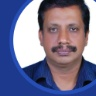
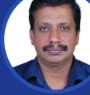
Fix Ismail photo loading with Data URL and adjust Executive Committee section layout for all 7 members

diff --git a/prisma/seed.ts b/prisma/seed.ts
@@ -142,7 +142,7 @@ async function main() {
             level: "DISTRICT",
             district: "Ernakulam",
             phone: "",
-            photoUrl: "/uploads/bearers/bearer-1771400600000-ismail.jpeg",
[1 lines of base64/hex data omitted]
             order: 13
         },
         {

diff --git a/src/components/CommitteeSection.tsx b/src/components/CommitteeSection.tsx
@@ -29,11 +29,11 @@ export function CommitteeSection({ officeBearers = [] }: { officeBearers?: Offic
 
     return (
       <>
-        {/* Row 1: 1-5 */}
-        <div className="flex flex-wrap justify-center gap-1 mb-2">
+        {/* Row 1: 1-5 (Top Office Bearers) */}
+        <div className="flex flex-wrap justify-center gap-2 mb-4">
           {bearers.slice(0, 5).map((bearer) => (
-            <div key={bearer.id} className="text-center group w-36">
-              <div className="h-28 w-28 mx-auto bg-blue-800/50 rounded-full mb-2 overflow-hidden relative border-4 border-blue-400/20 group-hover:border-blue-400 transition-colors">
+            <div key={bearer.id} className="text-center group w-32 md:w-36">
+              <div className="h-24 w-24 md:h-28 md:w-28 mx-auto bg-blue-800/50 rounded-full mb-2 overflow-hidden relative border-4 border-blue-400/20 group-hover:border-blue-400 transition-colors">
                 {bearer.photoUrl ? (
                   <img src={bearer.photoUrl} alt={bearer.name} className="object-cover object-top w-full h-full" />
                 ) : (
@@ -42,17 +42,17 @@ export function CommitteeSection({ officeBearers = [] }: { officeBearers?: Offic
                   </div>
                 )}
               </div>
-              <h4 className="text-base font-bold text-white mb-0.5 group-hover:text-blue-300 transition-colors leading-tight">{bearer.name}</h4>
+              <h4 className="text-sm md:text-base font-bold text-white mb-0.5 group-hover:text-blue-300 transition-colors leading-tight">{bearer.name}</h4>
               <p className="text-blue-200 text-xs font-medium mb-1">{bearer.position}</p>
             </div>
           ))}
         </div>
 
-        {/* Row 2: 6-9 */}
-        <div className="flex flex-wrap justify-center gap-1 mb-2">
+        {/* Row 2: 6-9 (Other Bearers) */}
+        <div className="flex flex-wrap justify-center gap-2 mb-4">
           {bearers.slice(5, 9).map((bearer) => (
-            <div key={bearer.id} className="text-center group w-36">
-              <div className="h-28 w-28 mx-auto bg-blue-800/50 rounded-full mb-2 overflow-hidden relative border-4 border-blue-400/20 group-hover:border-blue-400 transition-colors">
+            <div key={bearer.id} className="text-center group w-32 md:w-36">
+              <div className="h-24 w-24 md:h-28 md:w-28 mx-auto bg-blue-800/50 rounded-full mb-2 overflow-hidden relative border-4 border-blue-400/20 group-hover:border-blue-400 transition-colors">
                 {bearer.photoUrl ? (
                   <img src={bearer.photoUrl} alt={bearer.name} className="object-cover object-top w-full h-full" />
                 ) : (
@@ -61,17 +61,17 @@ export function CommitteeSection({ officeBearers = [] }: { officeBearers?: Offic
                   </div>
                 )}
               </div>
-              <h4 className="text-base font-bold text-white mb-0.5 group-hover:text-blue-300 transition-colors leading-tight">{bearer.name}</h4>
+              <h4 className="text-sm md:text-base font-bold text-white mb-0.5 group-hover:text-blue-300 transition-colors leading-tight">{bearer.name}</h4>
               <p className="text-blue-200 text-xs font-medium mb-1">{bearer.position}</p>
             </div>
           ))}
         </div>
 
-        {/* Row 3: 10+ */}
-        <div className="flex flex-wrap justify-center gap-1">
+        {/* Row 3: 10-16 (All Executive Members) */}
+        <div className="flex flex-wrap justify-center gap-2 md:gap-3 max-w-7xl mx-auto">
           {bearers.slice(9).map((bearer) => (
-            <div key={bearer.id} className="text-center group w-36">
-              <div className="h-28 w-28 mx-auto bg-blue-800/50 rounded-full mb-2 overflow-hidden relative border-4 border-blue-400/20 group-hover:border-blue-400 transition-colors">
+            <div key={bearer.id} className="text-center group w-28 md:w-32">
+              <div className="h-24 w-24 md:h-26 md:w-26 mx-auto bg-blue-800/50 rounded-full mb-2 overflow-hidden relative border-4 border-blue-400/20 group-hover:border-blue-400 transition-colors">
                 {bearer.photoUrl ? (
                   <img src={bearer.photoUrl} alt={bearer.name} className="object-cover object-top w-full h-full" />
                 ) : (
@@ -80,7 +80,7 @@ export function CommitteeSection({ officeBearers = [] }: { officeBearers?: Offic
                   </div>
                 )}
               </div>
-              <h4 className="text-base font-bold text-white mb-0.5 group-hover:text-blue-300 transition-colors leading-tight">{bearer.name}</h4>
+              <h4 className="text-sm md:text-base font-bold text-white mb-0.5 group-hover:text-blue-300 transition-colors leading-tight">{bearer.name}</h4>
               <p className="text-blue-200 text-xs font-medium mb-1">{bearer.position}</p>
             </div>
           ))}
